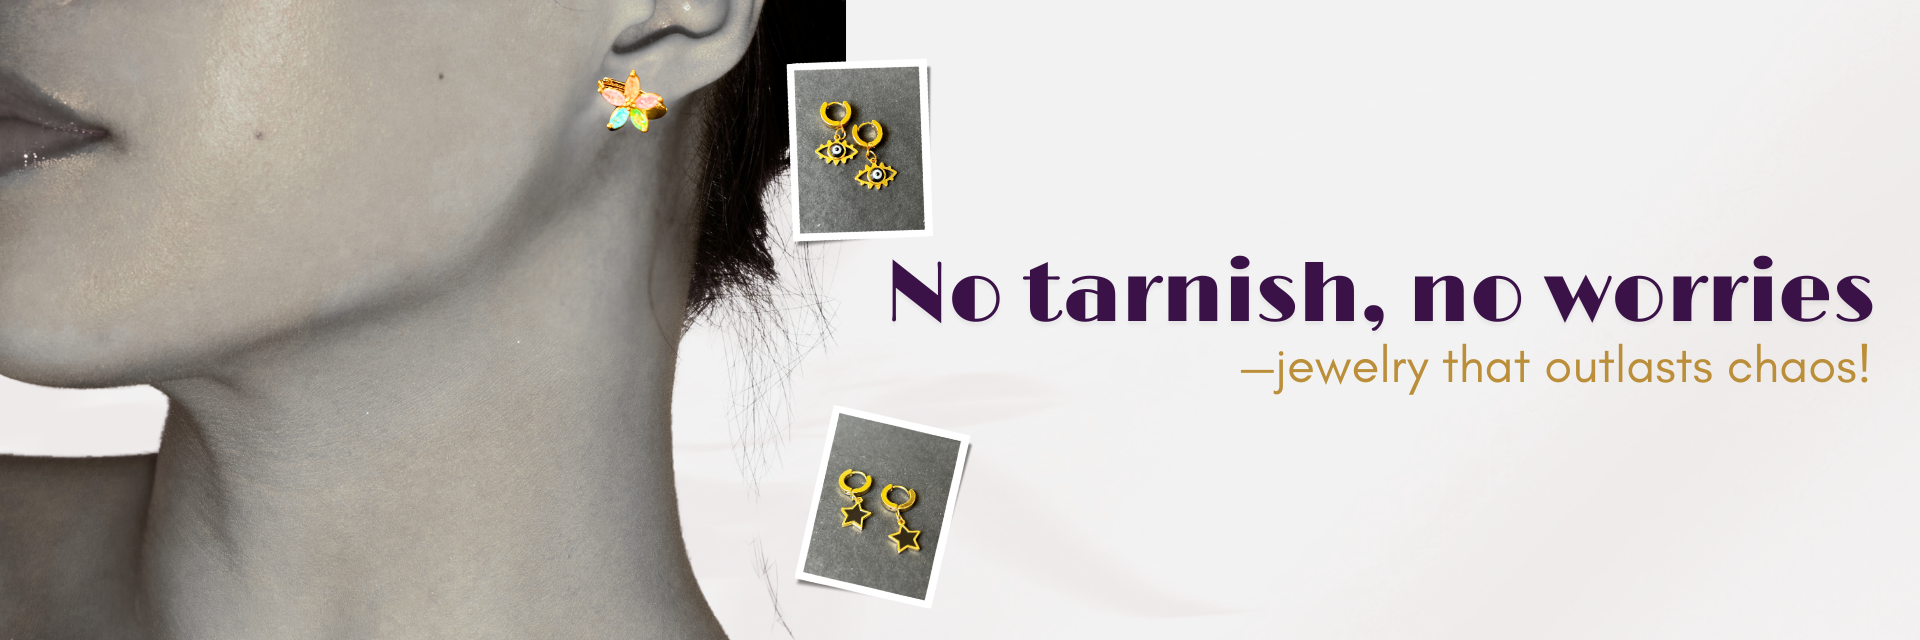
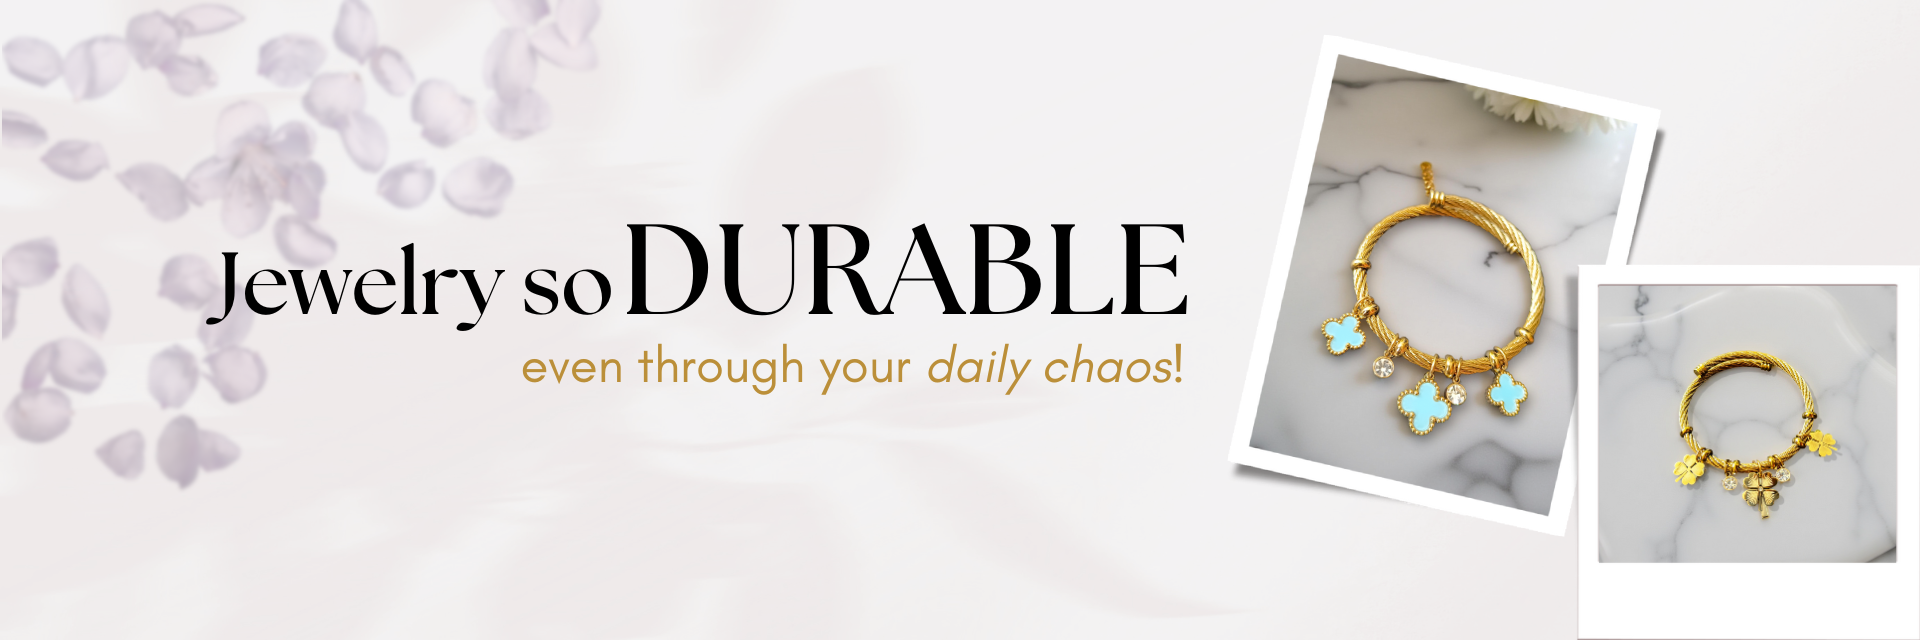
image change

diff --git a/src/components/landing/Banner/Banner.jsx b/src/components/landing/Banner/Banner.jsx
@@ -19,7 +19,7 @@ export const Banner = () => {
         <div
           className="wrappers"
           style={{
-            backgroundImage: "url(/assets/img/2.png)",
+            backgroundImage: "url(/assets/img/5.png)",
             backgroundSize: "cover",
             backgroundPosition: "center",
             minHeight: "640px",
@@ -33,7 +33,7 @@ export const Banner = () => {
         <div
           className="wrappers"
           style={{
-            backgroundImage: "url(/assets/img/3.png)",
+            backgroundImage: "url(/assets/img/6.png)",
             backgroundSize: "cover",
             backgroundPosition: "center",
             minHeight: "640px",
@@ -47,7 +47,7 @@ export const Banner = () => {
         <div
           className="wrappers"
           style={{
-            backgroundImage: "url(/assets/img/4.png)",
+            backgroundImage: "url(/assets/img/7.png)",
             backgroundSize: "cover",
             backgroundPosition: "center",
             minHeight: "640px",
@@ -61,7 +61,7 @@ export const Banner = () => {
         <div
           className="wrappers"
           style={{
-            backgroundImage: "url(/assets/img/5.png)",
+            backgroundImage: "url(/assets/img/8.png)",
             backgroundSize: "cover",
             backgroundPosition: "center",
             minHeight: "640px",

diff --git a/src/components/Error/Error.jsx b/src/components/Error/Error.jsx
@@ -32,7 +32,7 @@ export const Error = () => {
               </div>
             </div>
             <div className='error-page__img'>
-              <img src='/assets/img/error-img.jpg' className='js-img' alt='' />
+              <img src='/assets/img/error.png' className='js-img' alt='' />
             </div>
           </div>
         </div>
